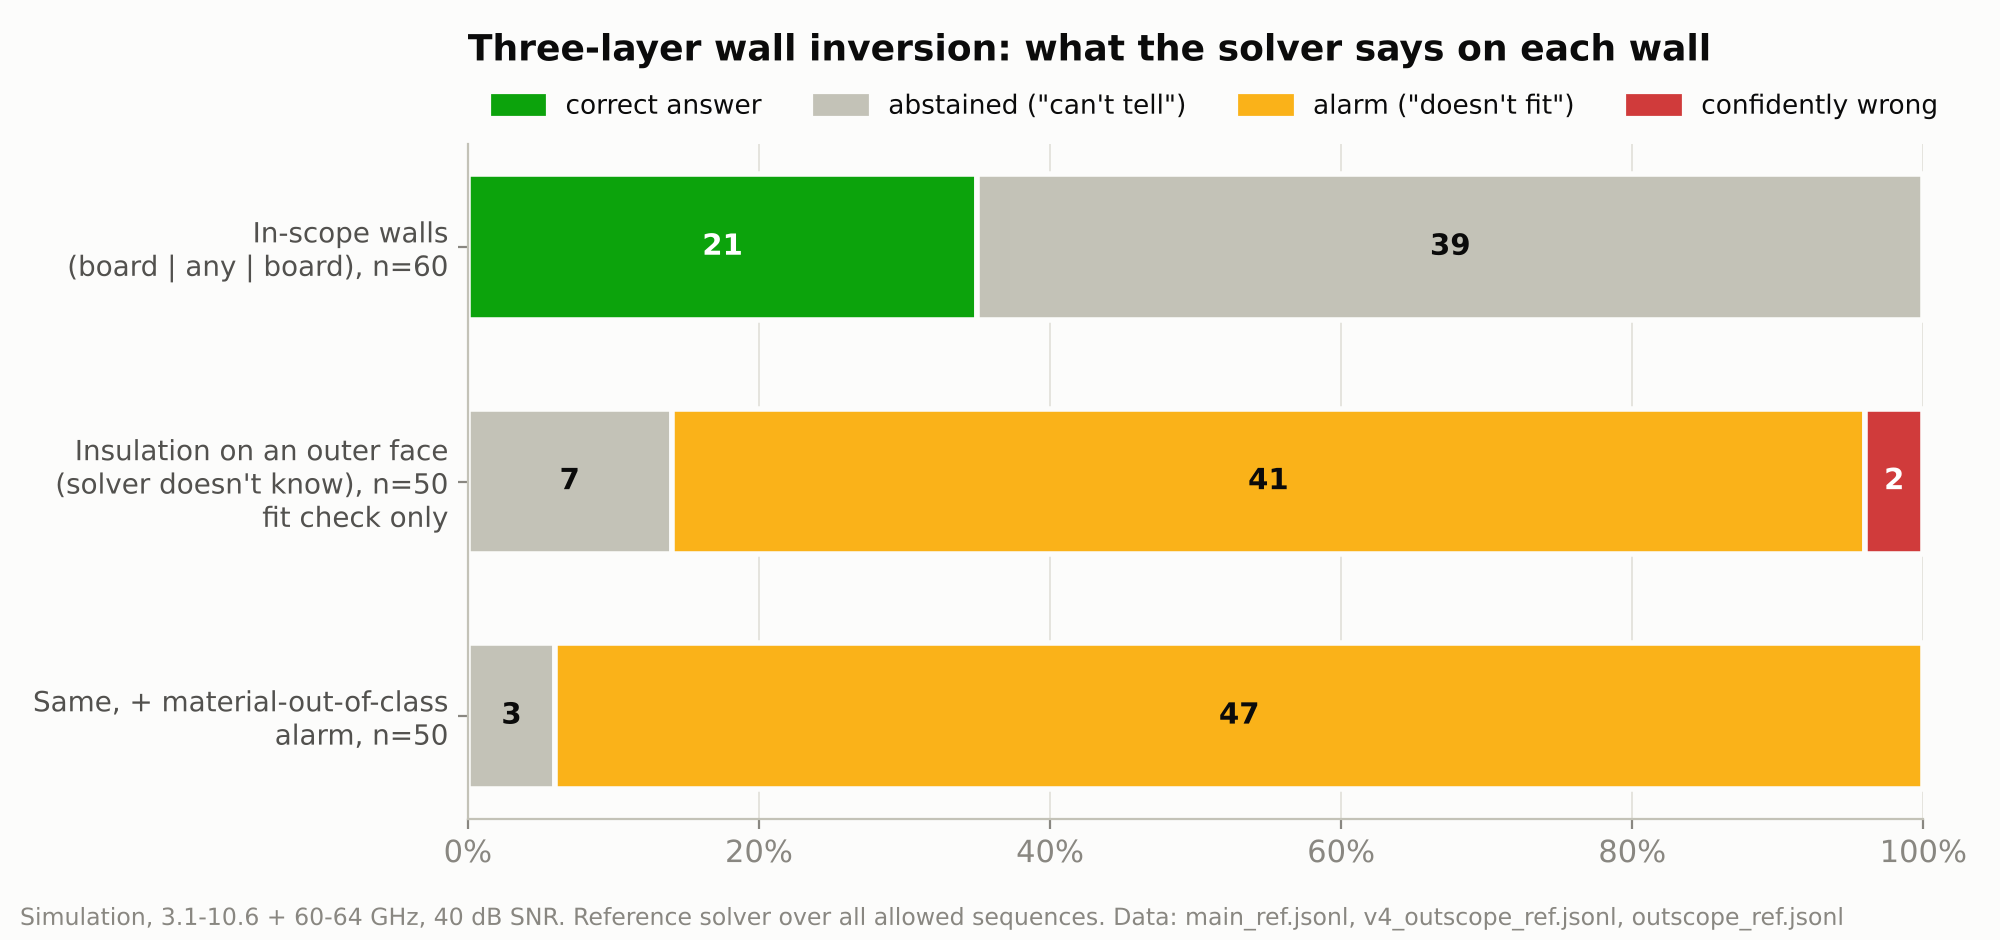
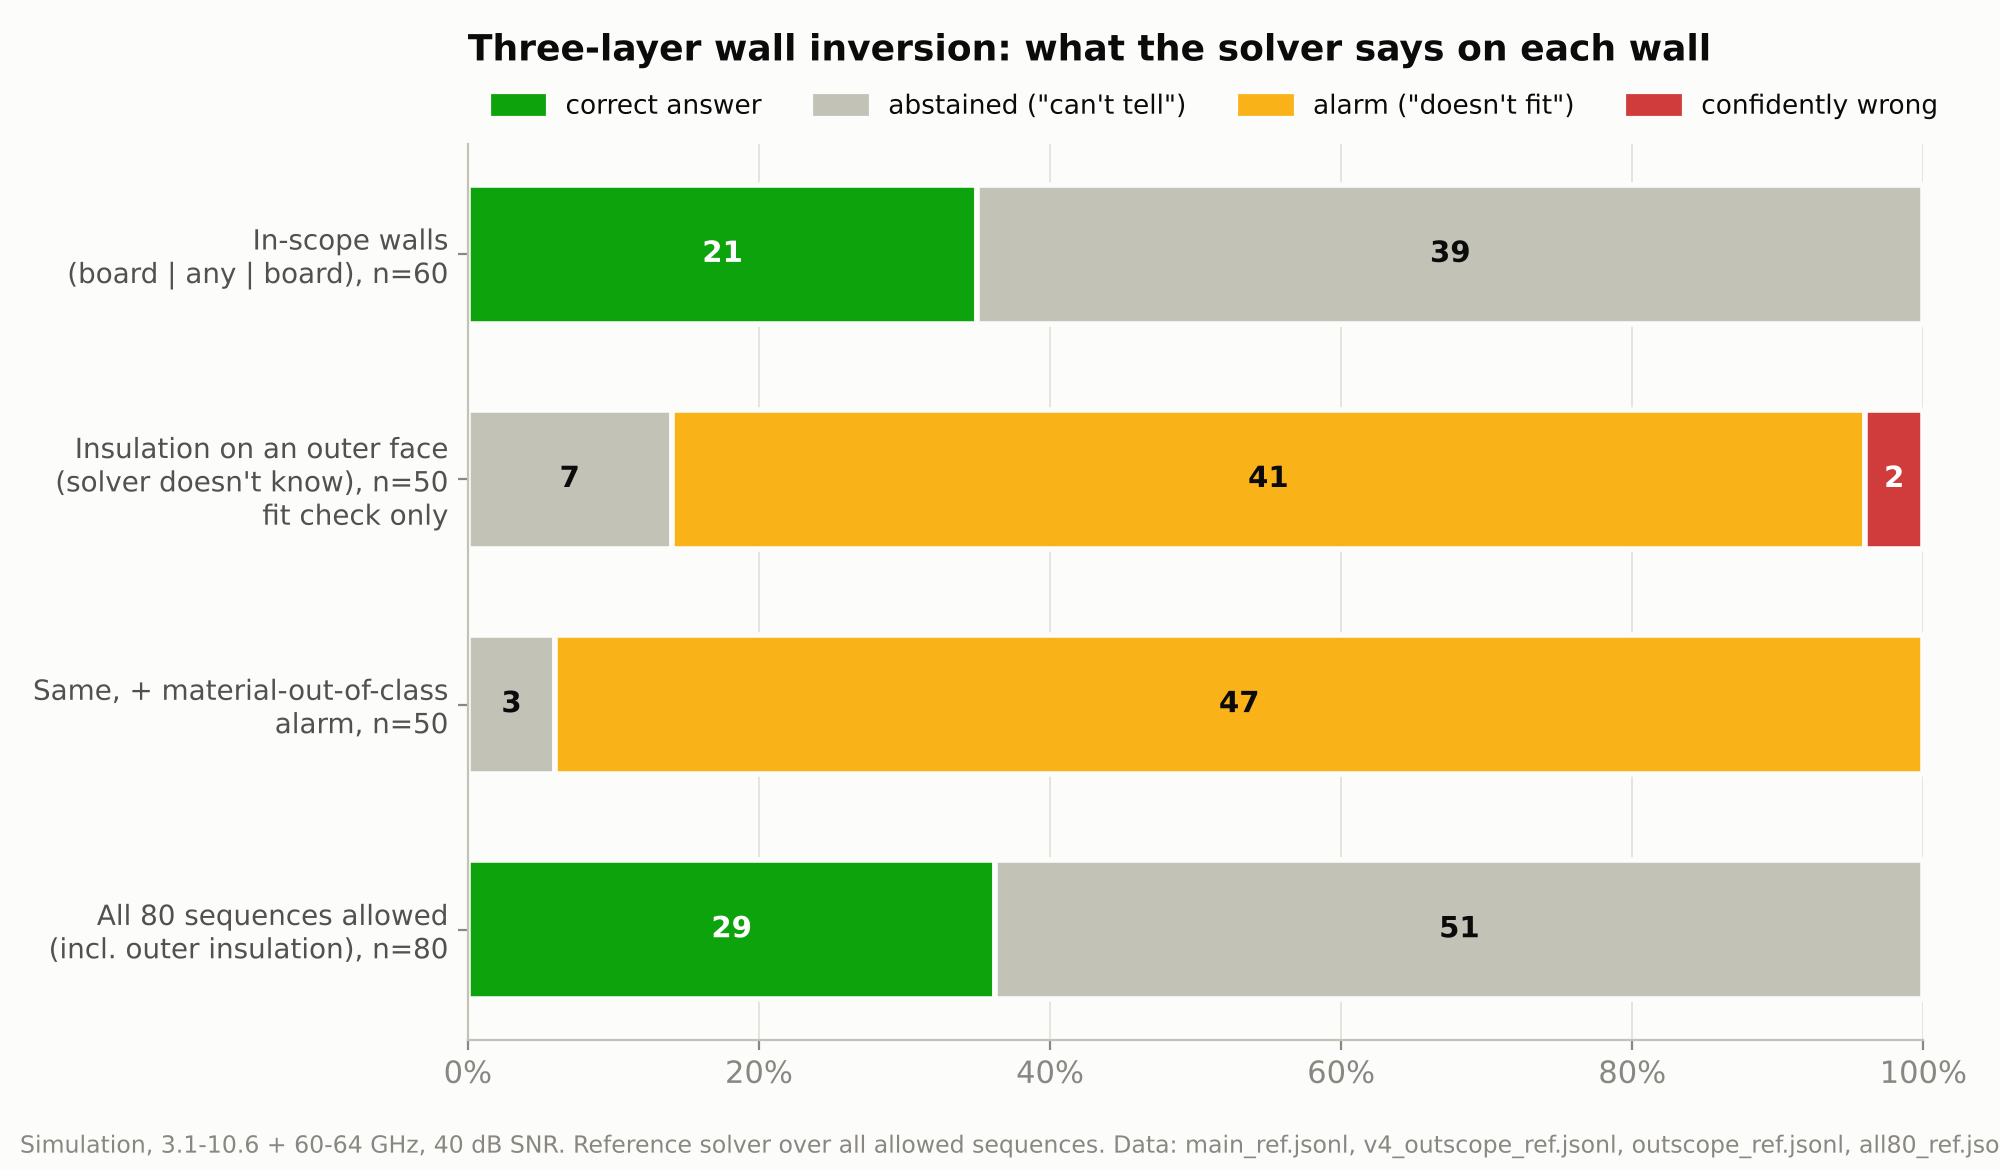
E070 complete: noisy all-80 run (29 answered, all correct, 0 confidently wrong), log + figures final
Claude-Session: https://claude.ai/code/session_017DGgcmTZEMRvB5FFcE2UF8

diff --git a/docs/results/2026-11-13_E070_three_layer/make_figures.py b/docs/results/2026-11-13_E070_three_layer/make_figures.py
@@ -70,6 +70,9 @@ def outcomes():
         rows.append((f"Insulation on an outer face\n(solver doesn't know), n={len(outv4)}\nfit check only", cats_out(outv4)))
     if outf:
         rows.append((f"Same, + material-out-of-class\nalarm, n={len(outf)}", cats_out(outf)))
+    a80, fa = load("all80_ref")
+    if fa == "all80_ref.jsonl":
+        rows.append((f"All 80 sequences allowed\n(incl. outer insulation), n={len(a80)}", cats_in(a80)))
     fig, ax = plt.subplots(figsize=(10, 1.25 + 1.15 * len(rows)))
     keys = [("ok", "correct answer", GOOD, "white"), ("abst", "abstained (\"can't tell\")", NEUTRAL, INK),
             ("alarm", "alarm (\"doesn't fit\")", WARN, INK), ("wrong", "confidently wrong", CRIT, "white")]
@@ -88,7 +91,7 @@ def outcomes():
     ax.legend(handles=handles, ncol=4, loc="lower left", bbox_to_anchor=(0, 1.0), frameon=False, fontsize=9.5)
     ax.set_title("Three-layer wall inversion: what the solver says on each wall", pad=30)
     foot(fig, f"Simulation, 3.1-10.6 + 60-64 GHz, 40 dB SNR. Reference solver over all allowed sequences. Data: {fm}"
-              + (", v4_outscope_ref.jsonl" if outv4 else "") + (", outscope_ref.jsonl" if outf else ""))
+              + (", v4_outscope_ref.jsonl" if outv4 else "") + (", outscope_ref.jsonl" if outf else "") + ", all80_ref.jsonl")
     fig.tight_layout(rect=(0, 0.04, 1, 1))
     fig.savefig(os.path.join(OUT, "1_outcomes.png"), dpi=200); plt.close(fig)
 

diff --git a/docs/experiments/EXPERIMENT_LOG.md b/docs/experiments/EXPERIMENT_LOG.md
@@ -1114,5 +1114,6 @@ N = 4, seeds 401–410, fast + front, 2 threads shared. **4 exact, 3 flagged, 3 
 - **Wood board = chipboard only** is harder than the broad class (see table above): the choice of wood model matters more than any solver setting.
 
 **Status against the owner's goal ("perfect"):** zero confidently-wrong answers on every in-scope set with the final 2-band code (60 + 60 + 60 walls) and on the out-of-scope set; every committed answer was correct. But only ~35 % of in-scope walls get a committed label answer: gypsum vs wood board is not separable with these class definitions (an information limit shown by the noise-free confusion map, not a solver limit). Paths to more committed answers: (a) merge gypsum + wood board into one 'board' class for labelling (thickness is unaffected), (b) define wood board by measured coupons and re-run the confusion map, (c) a measurement that separates them (e.g. moisture/conductivity at lower frequency – the 0.4–0.96 GHz band did NOT).
-**Noisy all-80 run** (outer-insulation sequences as candidates): still running; appended when done.
+**Noisy all-80 run** (`all80_ref`: the owner's original 80-sequence problem, solver admits insulation on the outer faces, one wall per sequence): 80 walls, best sequence right 78, joint 76, **answered 29 – all correct, 0 confidently wrong**, 40 label and 11 thickness abstentions; search missed the true sequence on 2 (+2.1, +82.3; neither answered). Outer-insulation truths: 21/50 answered correctly, none wrong – keeping those 50 sequences as candidates is safe (better than the alarm-only fallback) at ~800 s per wall instead of 128 s. In-scope truths under the bigger candidate set: 8/30 answered (vs ~35 % with the 30-sequence solver: more rivals). Thickness |error| median 0.021 mm, max 1.8 mm (a fibrous back layer; within 2 % of 90 mm).
+**Figures:** results/2026-11-13_E070_three_layer/figures/ (1 outcomes, 2 thickness accuracy, 3 label ambiguity, 4 example wall, 5 confusion map).
 **Artifacts:** results/2026-11-13_E070_three_layer/ (`run.py`, `summarize.py`, `make_figures.py`, `figures/`, `*.jsonl`, archived `v1_/v3_/v4_/v5_` runs)
